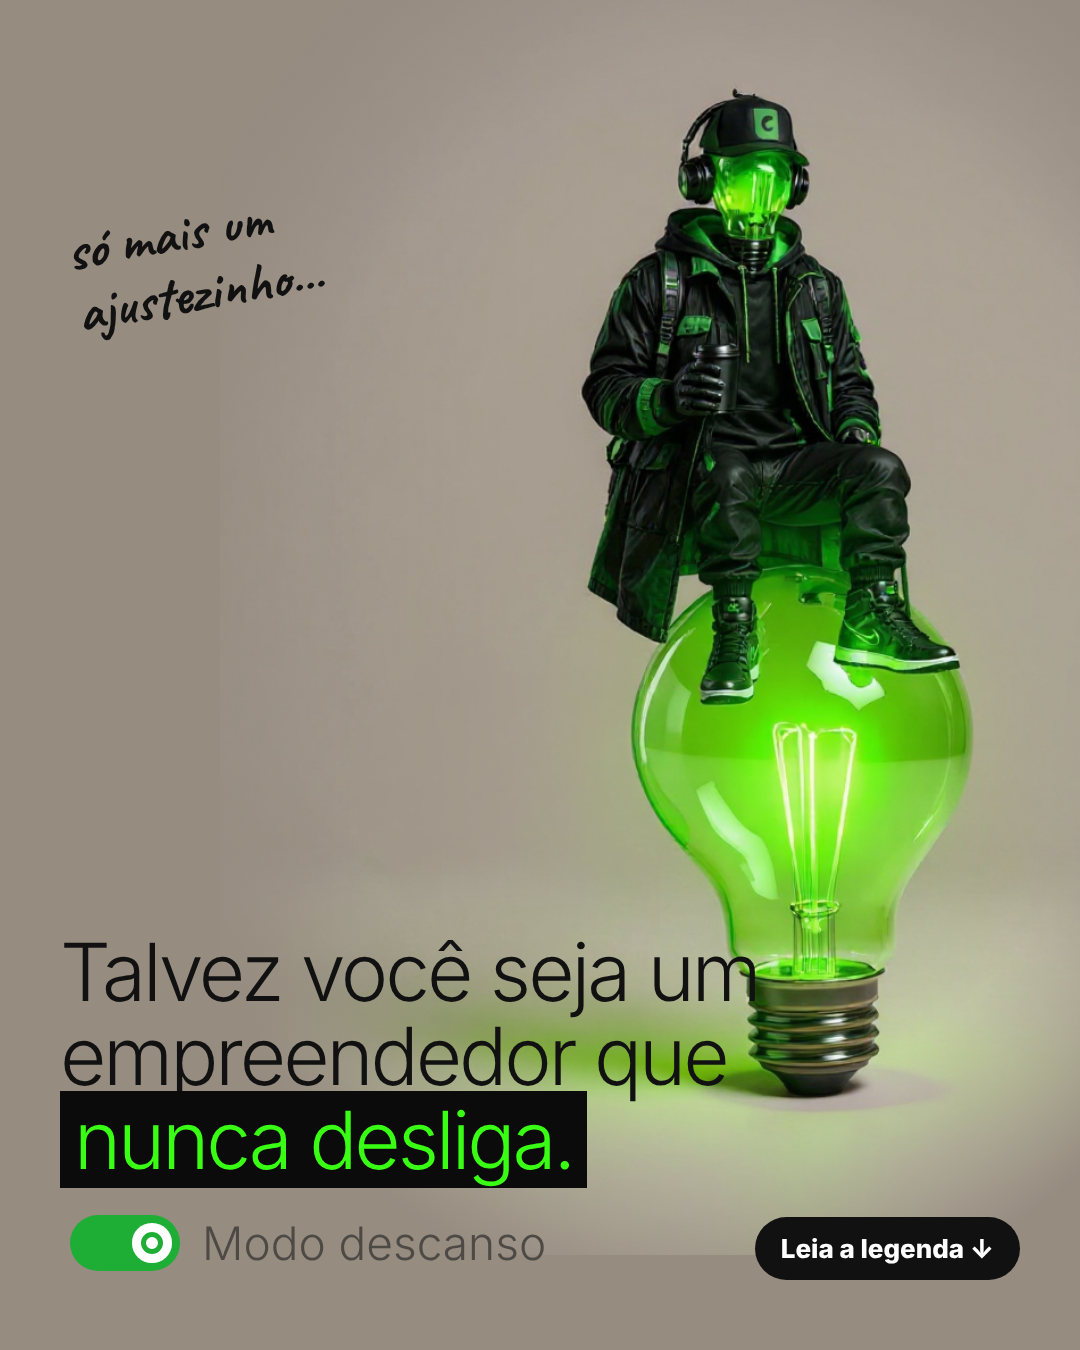
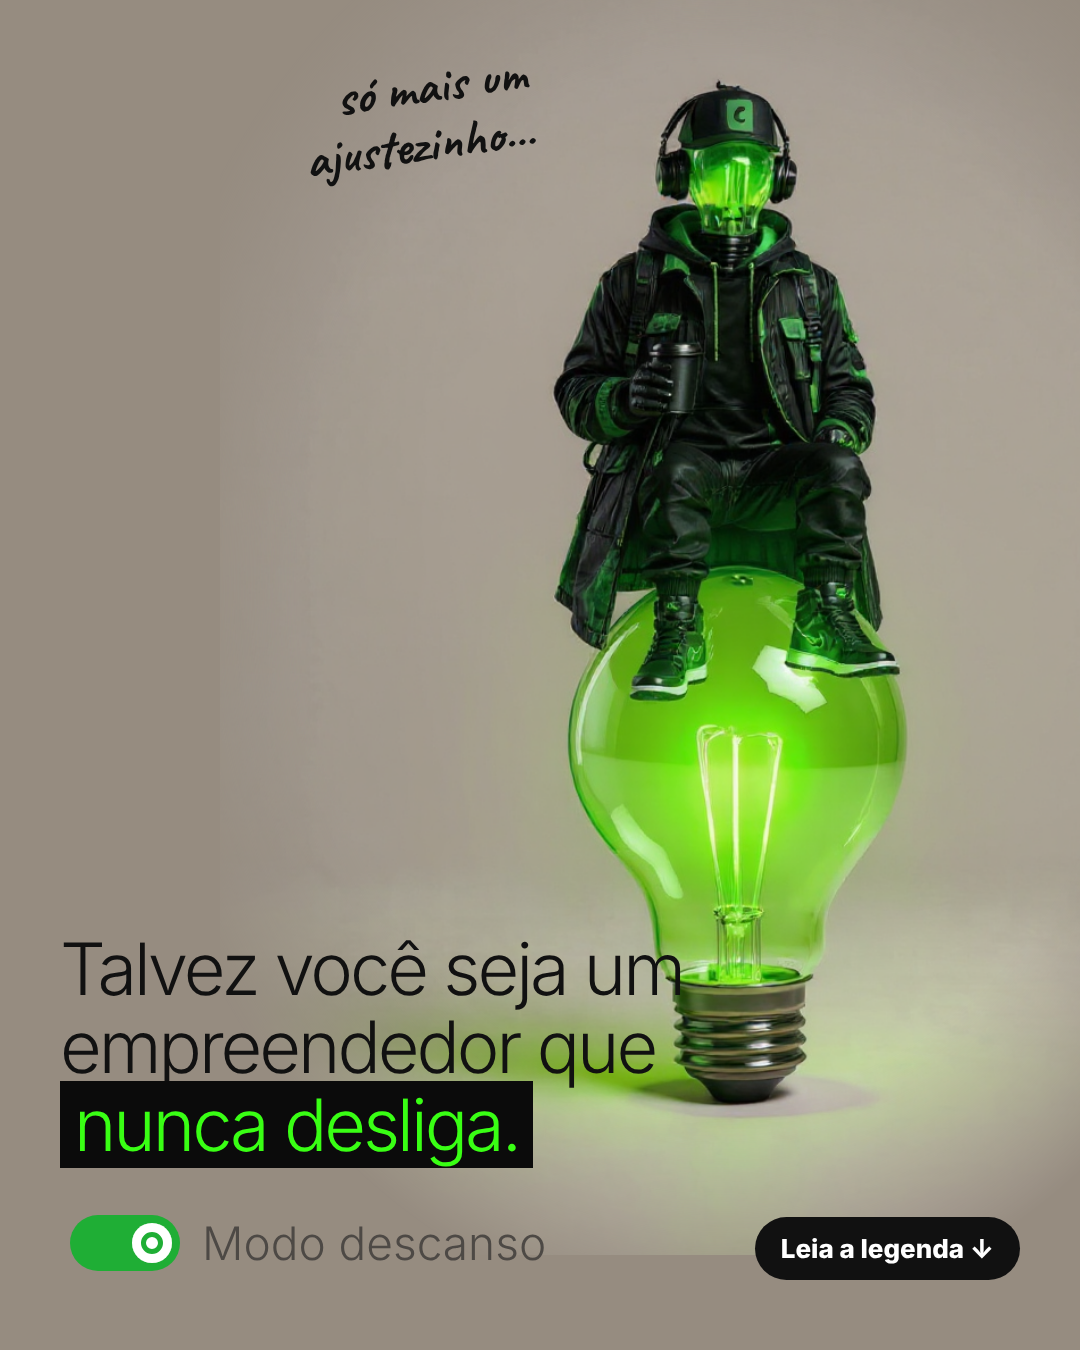
Feed estático: 2ª rodada de ajustes 24, 25, 28; 27 aprovada
Claude-Session: https://claude.ai/code/session_017mkQW4f9RfZB1iSbiGkvms

diff --git a/banco/tpl-estatico/layout-24.html b/banco/tpl-estatico/layout-24.html
@@ -7,5 +7,5 @@ body{margin:0}#s{width:1080px;height:1350px;position:relative;overflow:hidden;ba
  background-image:repeating-linear-gradient(135deg,transparent 0 380px,#0b0b0b 380px 440px)}
 .tp span{font-family:A;color:#0b0b0b;letter-spacing:1px;padding-left:30px}
 .cta{position:absolute;left:50%;transform:translateX(-50%);bottom:50px;font:800 26px I8;padding:16px 26px;border-radius:40px;white-space:nowrap;z-index:9;background:#0b0b0b;color:#fff}
-</style></head><body><div id=s><img class=bg src="c24d.png" style="z-index:0"><div class=tp style="top:80px;left:-300px;transform:rotate(-22deg);height:60px;z-index:1"><i></i><span style="font-size:40px">ACESSO NEGADO&nbsp;&nbsp;✕&nbsp;&nbsp;ACESSO NEGADO&nbsp;&nbsp;✕&nbsp;&nbsp;ACESSO NEGADO&nbsp;&nbsp;✕&nbsp;&nbsp;ACESSO NEGADO&nbsp;&nbsp;✕&nbsp;&nbsp;ACESSO NEGADO&nbsp;&nbsp;✕&nbsp;&nbsp;ACESSO NEGADO&nbsp;&nbsp;✕&nbsp;&nbsp;ACESSO NEGADO&nbsp;&nbsp;✕&nbsp;&nbsp;ACESSO NEGADO&nbsp;&nbsp;✕&nbsp;&nbsp;</span></div><div class=tp style="top:330px;left:-200px;transform:rotate(18deg);height:70px;z-index:1"><i></i><span style="font-size:46px">ACESSO NEGADO&nbsp;&nbsp;✕&nbsp;&nbsp;ACESSO NEGADO&nbsp;&nbsp;✕&nbsp;&nbsp;ACESSO NEGADO&nbsp;&nbsp;✕&nbsp;&nbsp;ACESSO NEGADO&nbsp;&nbsp;✕&nbsp;&nbsp;ACESSO NEGADO&nbsp;&nbsp;✕&nbsp;&nbsp;ACESSO NEGADO&nbsp;&nbsp;✕&nbsp;&nbsp;ACESSO NEGADO&nbsp;&nbsp;✕&nbsp;&nbsp;ACESSO NEGADO&nbsp;&nbsp;✕&nbsp;&nbsp;</span></div><div class=tp style="top:560px;left:-300px;transform:rotate(-14deg);height:56px;z-index:1"><i></i><span style="font-size:38px">ACESSO NEGADO&nbsp;&nbsp;✕&nbsp;&nbsp;ACESSO NEGADO&nbsp;&nbsp;✕&nbsp;&nbsp;ACESSO NEGADO&nbsp;&nbsp;✕&nbsp;&nbsp;ACESSO NEGADO&nbsp;&nbsp;✕&nbsp;&nbsp;ACESSO NEGADO&nbsp;&nbsp;✕&nbsp;&nbsp;ACESSO NEGADO&nbsp;&nbsp;✕&nbsp;&nbsp;ACESSO NEGADO&nbsp;&nbsp;✕&nbsp;&nbsp;ACESSO NEGADO&nbsp;&nbsp;✕&nbsp;&nbsp;</span></div><div class=tp style="top:760px;left:-200px;transform:rotate(24deg);height:64px;z-index:1"><i></i><span style="font-size:42px">ACESSO NEGADO&nbsp;&nbsp;✕&nbsp;&nbsp;ACESSO NEGADO&nbsp;&nbsp;✕&nbsp;&nbsp;ACESSO NEGADO&nbsp;&nbsp;✕&nbsp;&nbsp;ACESSO NEGADO&nbsp;&nbsp;✕&nbsp;&nbsp;ACESSO NEGADO&nbsp;&nbsp;✕&nbsp;&nbsp;ACESSO NEGADO&nbsp;&nbsp;✕&nbsp;&nbsp;ACESSO NEGADO&nbsp;&nbsp;✕&nbsp;&nbsp;ACESSO NEGADO&nbsp;&nbsp;✕&nbsp;&nbsp;</span></div><img class=bg src="c24d-cut.png" style="z-index:3"><div class=tp style="top:1000px;left:-260px;transform:rotate(12deg);height:130px;z-index:5"><i></i><span style="font-size:96px">ACESSO NEGADO&nbsp;&nbsp;✕&nbsp;&nbsp;ACESSO NEGADO&nbsp;&nbsp;✕&nbsp;&nbsp;ACESSO NEGADO&nbsp;&nbsp;✕&nbsp;&nbsp;ACESSO NEGADO&nbsp;&nbsp;✕&nbsp;&nbsp;ACESSO NEGADO&nbsp;&nbsp;✕&nbsp;&nbsp;ACESSO NEGADO&nbsp;&nbsp;✕&nbsp;&nbsp;ACESSO NEGADO&nbsp;&nbsp;✕&nbsp;&nbsp;ACESSO NEGADO&nbsp;&nbsp;✕&nbsp;&nbsp;</span></div><div class=tp style="top:190px;left:-300px;transform:rotate(-30deg);height:74px;z-index:1"><i></i><span style="font-size:48px">ACESSO NEGADO&nbsp;&nbsp;✕&nbsp;&nbsp;ACESSO NEGADO&nbsp;&nbsp;✕&nbsp;&nbsp;ACESSO NEGADO&nbsp;&nbsp;✕&nbsp;&nbsp;ACESSO NEGADO&nbsp;&nbsp;✕&nbsp;&nbsp;ACESSO NEGADO&nbsp;&nbsp;✕&nbsp;&nbsp;ACESSO NEGADO&nbsp;&nbsp;✕&nbsp;&nbsp;ACESSO NEGADO&nbsp;&nbsp;✕&nbsp;&nbsp;ACESSO NEGADO&nbsp;&nbsp;✕&nbsp;&nbsp;</span></div>
+</style></head><body><div id=s><img class=bg src="c24d.png" style="z-index:0"><div class=tp style="top:80px;left:-300px;transform:rotate(-22deg);height:60px;z-index:1"><i></i><span style="font-size:40px">ACESSO NEGADO&nbsp;&nbsp;✕&nbsp;&nbsp;ACESSO NEGADO&nbsp;&nbsp;✕&nbsp;&nbsp;ACESSO NEGADO&nbsp;&nbsp;✕&nbsp;&nbsp;ACESSO NEGADO&nbsp;&nbsp;✕&nbsp;&nbsp;ACESSO NEGADO&nbsp;&nbsp;✕&nbsp;&nbsp;ACESSO NEGADO&nbsp;&nbsp;✕&nbsp;&nbsp;ACESSO NEGADO&nbsp;&nbsp;✕&nbsp;&nbsp;ACESSO NEGADO&nbsp;&nbsp;✕&nbsp;&nbsp;</span></div><div class=tp style="top:330px;left:-200px;transform:rotate(18deg);height:70px;z-index:1"><i></i><span style="font-size:46px">ACESSO NEGADO&nbsp;&nbsp;✕&nbsp;&nbsp;ACESSO NEGADO&nbsp;&nbsp;✕&nbsp;&nbsp;ACESSO NEGADO&nbsp;&nbsp;✕&nbsp;&nbsp;ACESSO NEGADO&nbsp;&nbsp;✕&nbsp;&nbsp;ACESSO NEGADO&nbsp;&nbsp;✕&nbsp;&nbsp;ACESSO NEGADO&nbsp;&nbsp;✕&nbsp;&nbsp;ACESSO NEGADO&nbsp;&nbsp;✕&nbsp;&nbsp;ACESSO NEGADO&nbsp;&nbsp;✕&nbsp;&nbsp;</span></div><div class=tp style="top:620px;left:-300px;transform:rotate(-12deg);height:58px;z-index:1"><i></i><span style="font-size:38px">ACESSO NEGADO&nbsp;&nbsp;✕&nbsp;&nbsp;ACESSO NEGADO&nbsp;&nbsp;✕&nbsp;&nbsp;ACESSO NEGADO&nbsp;&nbsp;✕&nbsp;&nbsp;ACESSO NEGADO&nbsp;&nbsp;✕&nbsp;&nbsp;ACESSO NEGADO&nbsp;&nbsp;✕&nbsp;&nbsp;ACESSO NEGADO&nbsp;&nbsp;✕&nbsp;&nbsp;ACESSO NEGADO&nbsp;&nbsp;✕&nbsp;&nbsp;ACESSO NEGADO&nbsp;&nbsp;✕&nbsp;&nbsp;</span></div><img class=bg src="c24d-cut.png" style="z-index:3"><div class=tp style="top:1000px;left:-260px;transform:rotate(12deg);height:130px;z-index:5"><i></i><span style="font-size:96px">ACESSO NEGADO&nbsp;&nbsp;✕&nbsp;&nbsp;ACESSO NEGADO&nbsp;&nbsp;✕&nbsp;&nbsp;ACESSO NEGADO&nbsp;&nbsp;✕&nbsp;&nbsp;ACESSO NEGADO&nbsp;&nbsp;✕&nbsp;&nbsp;ACESSO NEGADO&nbsp;&nbsp;✕&nbsp;&nbsp;ACESSO NEGADO&nbsp;&nbsp;✕&nbsp;&nbsp;ACESSO NEGADO&nbsp;&nbsp;✕&nbsp;&nbsp;ACESSO NEGADO&nbsp;&nbsp;✕&nbsp;&nbsp;</span></div>
 <div class=cta>Leia a legenda <span style="color:#18e0ff">↓</span></div></div></body></html>

diff --git a/banco/tpl-estatico/layout-25.html b/banco/tpl-estatico/layout-25.html
@@ -12,13 +12,13 @@ body{margin:0}#s{width:1080px;height:1350px;position:relative;overflow:hidden;ba
 .cta{position:absolute;left:50%;transform:translateX(-50%);bottom:50px;font:800 26px I8;padding:16px 26px;border-radius:40px;white-space:nowrap;z-index:9}
 
 #s{background:#968C80}
-.t{position:absolute;left:60px;top:930px;font:400 80px/1.05 IL;color:#111;letter-spacing:-3px}
+.t{position:absolute;left:60px;top:930px;font:400 72px/1.08 IL;color:#111;letter-spacing:-3px}
 .t b{font-weight:400;color:#39ff14;background:#0b0b0b;padding:0 14px;-webkit-box-decoration-break:clone}
 .tg{position:absolute;left:70px;top:1215px;display:flex;align-items:center;gap:22px;font:300 46px IL;color:#4d4945}
 .sw{width:110px;height:56px;border-radius:30px;background:#1fae35;position:relative}.sw:after{content:'';position:absolute;right:8px;top:8px;width:40px;height:40px;border-radius:50%;background:#fff;box-shadow:inset 0 0 0 9px #fff,inset 0 0 0 14px #1fae35}
-.sc{position:absolute;left:70px;top:200px;font:700 56px/1.1 CA;color:#111;transform:rotate(-10deg);text-align:left}
+.sc{position:absolute;left:300px;top:60px;font:700 52px/1.1 CA;color:#111;transform:rotate(-8deg);text-align:right}
 .cta{background:#111;color:#fff;left:auto;right:60px;transform:none;bottom:70px}
-</style></head><body><div id=s><img src="c25c.png" style="position:absolute;left:220px;top:-90px;width:1000px;-webkit-mask-image:radial-gradient(ellipse 60% 55% at 50% 50%,#000 70%,transparent 100%)">
+</style></head><body><div id=s><img src="c25d.png" style="position:absolute;left:220px;top:-90px;width:1000px;-webkit-mask-image:radial-gradient(ellipse 60% 55% at 50% 50%,#000 70%,transparent 100%)">
 <div class=sc>só mais um<br>ajustezinho...</div>
 <div class=t>Talvez você seja um<br>empreendedor que<br><b>nunca desliga.</b></div>
 <div class=tg><div class=sw></div>Modo descanso</div><div class=cta>Leia a legenda ↓</div></div></body></html>

diff --git a/banco/tpl-estatico/layout-28.html b/banco/tpl-estatico/layout-28.html
@@ -11,8 +11,8 @@ body{margin:0}#s{width:1080px;height:1350px;position:relative;overflow:hidden;ba
 .bg{position:absolute;inset:0;width:100%;height:100%;object-fit:cover}
 .cta{position:absolute;left:50%;transform:translateX(-50%);bottom:50px;font:800 26px I8;padding:16px 26px;border-radius:40px;white-space:nowrap;z-index:9}
 
-.m{position:absolute;left:70px;top:95px;font:700 italic 400px/1 PF;color:#9dff3c;z-index:3}
-.e{position:absolute;left:400px;top:150px;font:400 300px/1 A;color:#f2f2f2;letter-spacing:-2px}
+.m{position:absolute;left:40px;top:110px;font:700 italic 330px/1 PF;color:#9dff3c;z-index:3}
+.e{position:absolute;left:350px;top:150px;font:400 300px/1 A;color:#f2f2f2;letter-spacing:-2px}
 .box{position:absolute;right:70px;top:880px;padding:16px 26px;border:1px solid rgba(255,255,255,.5);background:rgba(255,255,255,.12);backdrop-filter:blur(6px);color:#fff;font:300 40px/1.1 IL;z-index:3}
 .box b{font-weight:800;font-family:I8}.box i{font:700 50px S;color:#9dff3c;font-style:normal}
 .cta{background:#9dff3c;color:#0b2a10}

diff --git a/conhecimento/agentes/designer/22-feed-estatico-quebra-de-padrao.md b/conhecimento/agentes/designer/22-feed-estatico-quebra-de-padrao.md
@@ -103,3 +103,4 @@ Arquivos em `banco/tpl-estatico/` (`ref-N`, `layout-N.html`, `teste-N.png`).
 - **27 · Trono surreal** (Seguidores em Alta): mascote sentado num objeto gigante (cubo mágico) no espaço; palavra gigante branca ATRÁS do mascote (recorte na frente, pode cobrir um pedaço como na referência); etiqueta pequena acima.
 - **28 · Meio rosto caveira** (Vivendo de Bet): metade do rosto vira caveira com glitch; título "M" manuscrito + "EDOS" condensado atrás da cabeça; caixa de vidro com o apoio.
 - Ajustes do dono (18/11/2026): **26 DESCARTADA** (ficou bagunçada mesmo copiada certo: palavras espalhadas demais). 24: as fitas são FAIXAS de verdade (grossas e finas), todas com o texto repetido (ex.: "ACESSO NEGADO ✕"), umas atrás e outras na frente do mascote, nunca no rosto. 25: o mascote precisa ser GRANDE e evidente; destaque do título em verde neon sobre marca-texto preto (verde claro não lê no bege). 27: o texto não pode perder palavra ("O SEGREDO DOS VÍDEOS / VIRAIS"); roupa do mascote igual à dele (calça social preta, nada de jeans da referência). 28: letra manuscrita do título alinhada na altura das outras letras; a ideia de TIRAR A MÁSCARA tem que ficar clara.
+- 2ª rodada: 24 com 4 fitas só (como a referência); 25 mascote sentado firme e centralizado na lâmpada, frase manuscrita perto da cabeça como fala; 27 aprovada; 28 M encostado no EDOS (não por cima). Máscara saindo do rosto: a IA não consegue fazer (6 tentativas), pendente de decisão do dono.
